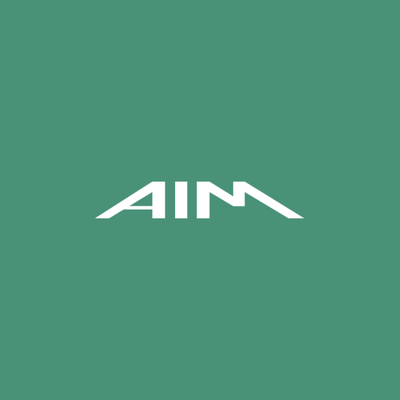
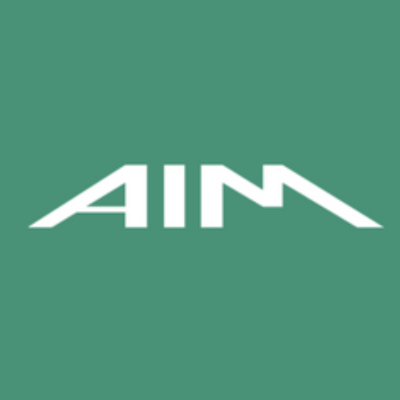
Added partners

Changed region(s): [[0.06, 0.39, 0.96, 0.57]]

diff --git a/src/styles/global.css b/src/styles/global.css
@@ -344,7 +344,7 @@ body {
 
 /* Partners Section */
 .partners-section {
-  padding: 2rem 2rem;
+  padding: 1.5rem 1.5rem;
   animation-delay: 0.4s;
 }
 
@@ -363,7 +363,7 @@ body {
   display: flex;
   align-items: center;
   justify-content: center;
-  padding: 1.5rem;
+  padding: 1rem;
   background: rgba(255, 255, 255, 0.02);
   border: 2px solid rgba(168, 204, 171, 0.15);
   border-radius: 16px;
@@ -380,8 +380,8 @@ body {
 .partner-logo {
   width: 100%;
   height: auto;
-  max-width: 100px;
-  max-height: 50px;
+  max-width: 120px;
+  max-height: 70px;
   object-fit: contain;
   filter: brightness(0.9) contrast(1.1);
   transition: all 0.3s ease;
